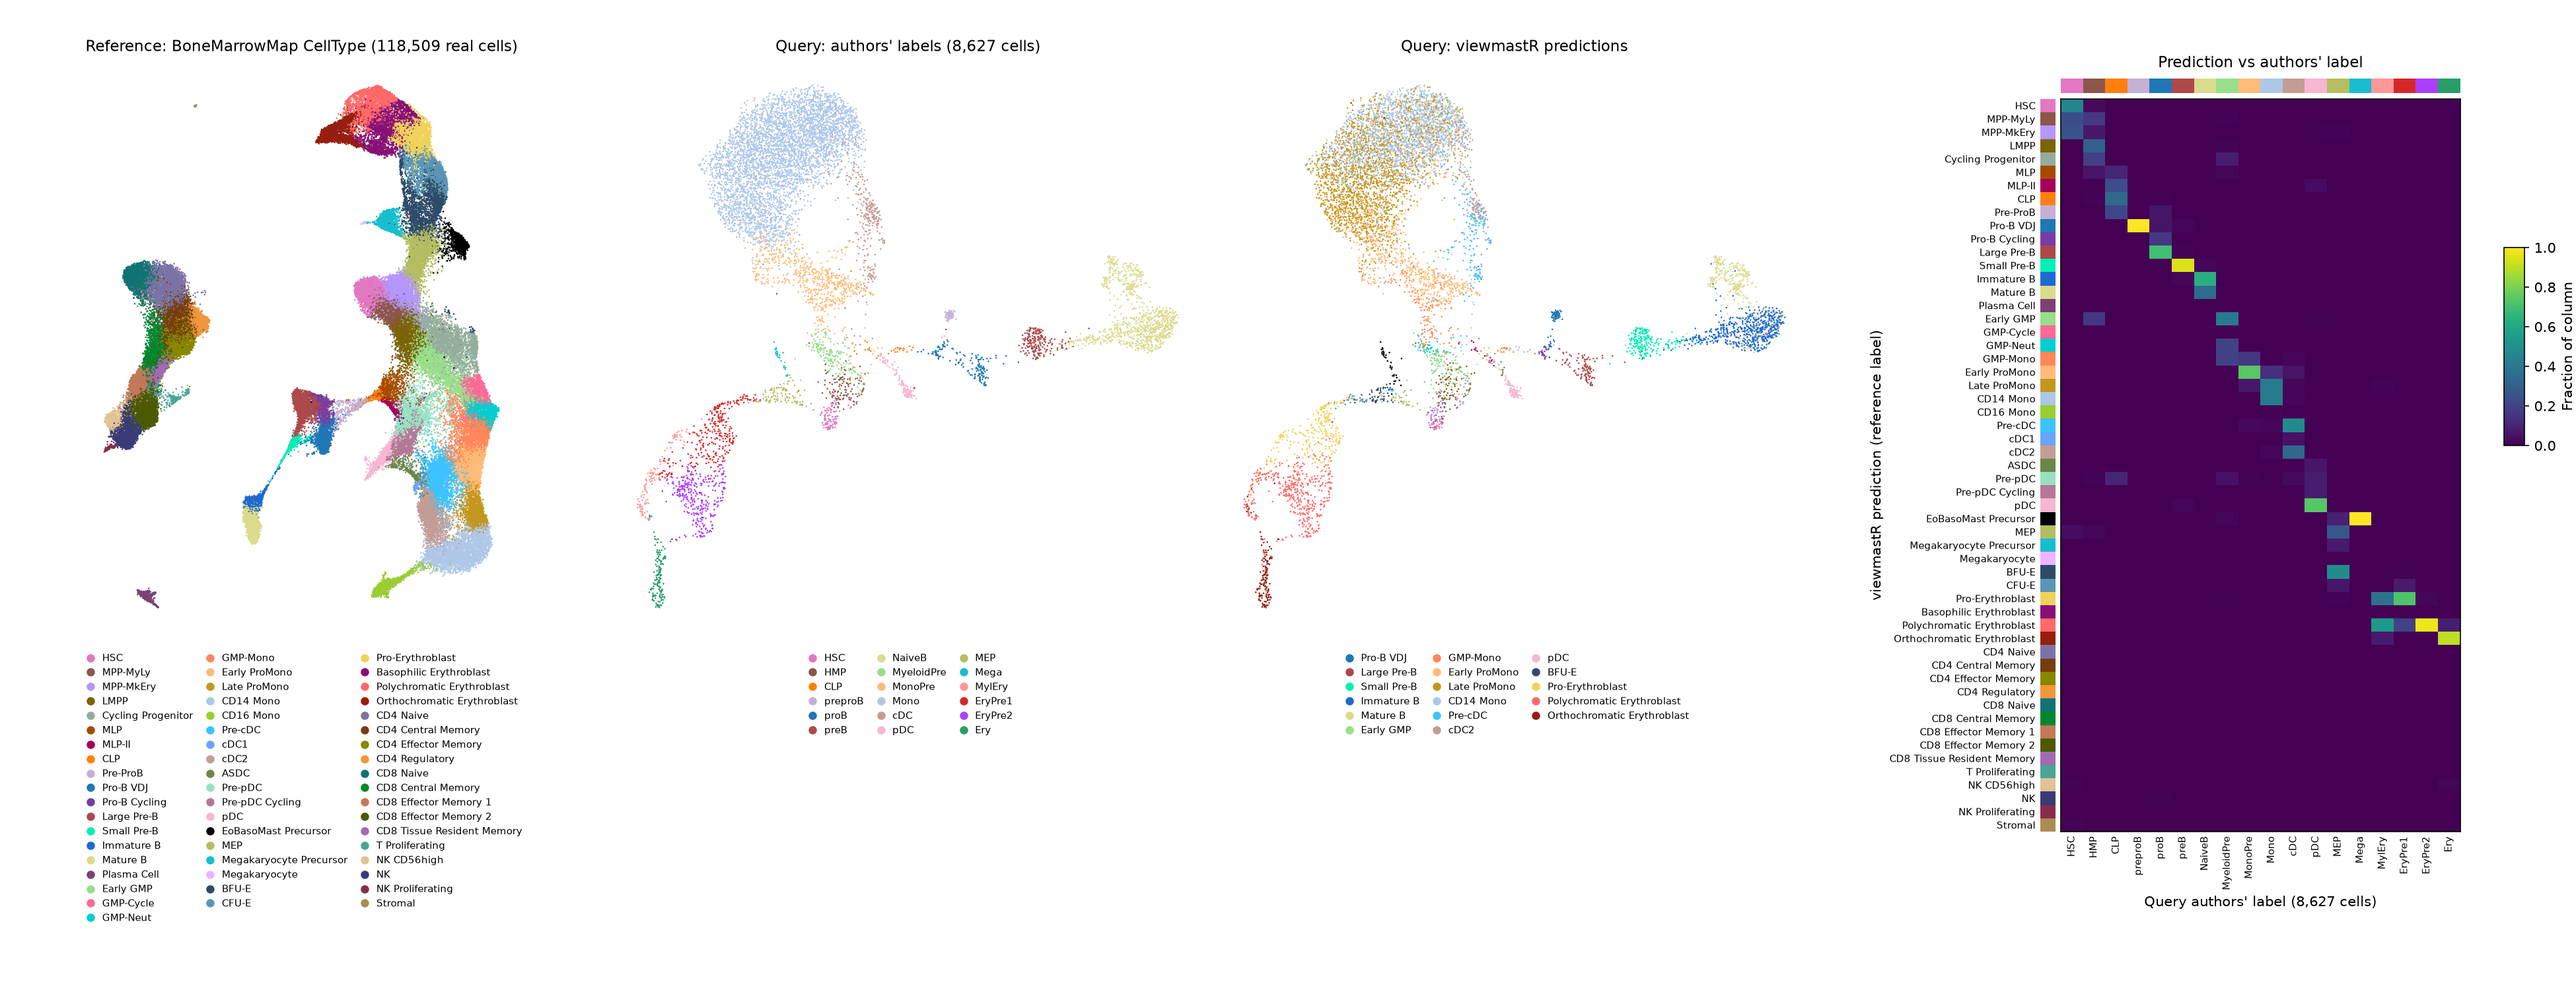
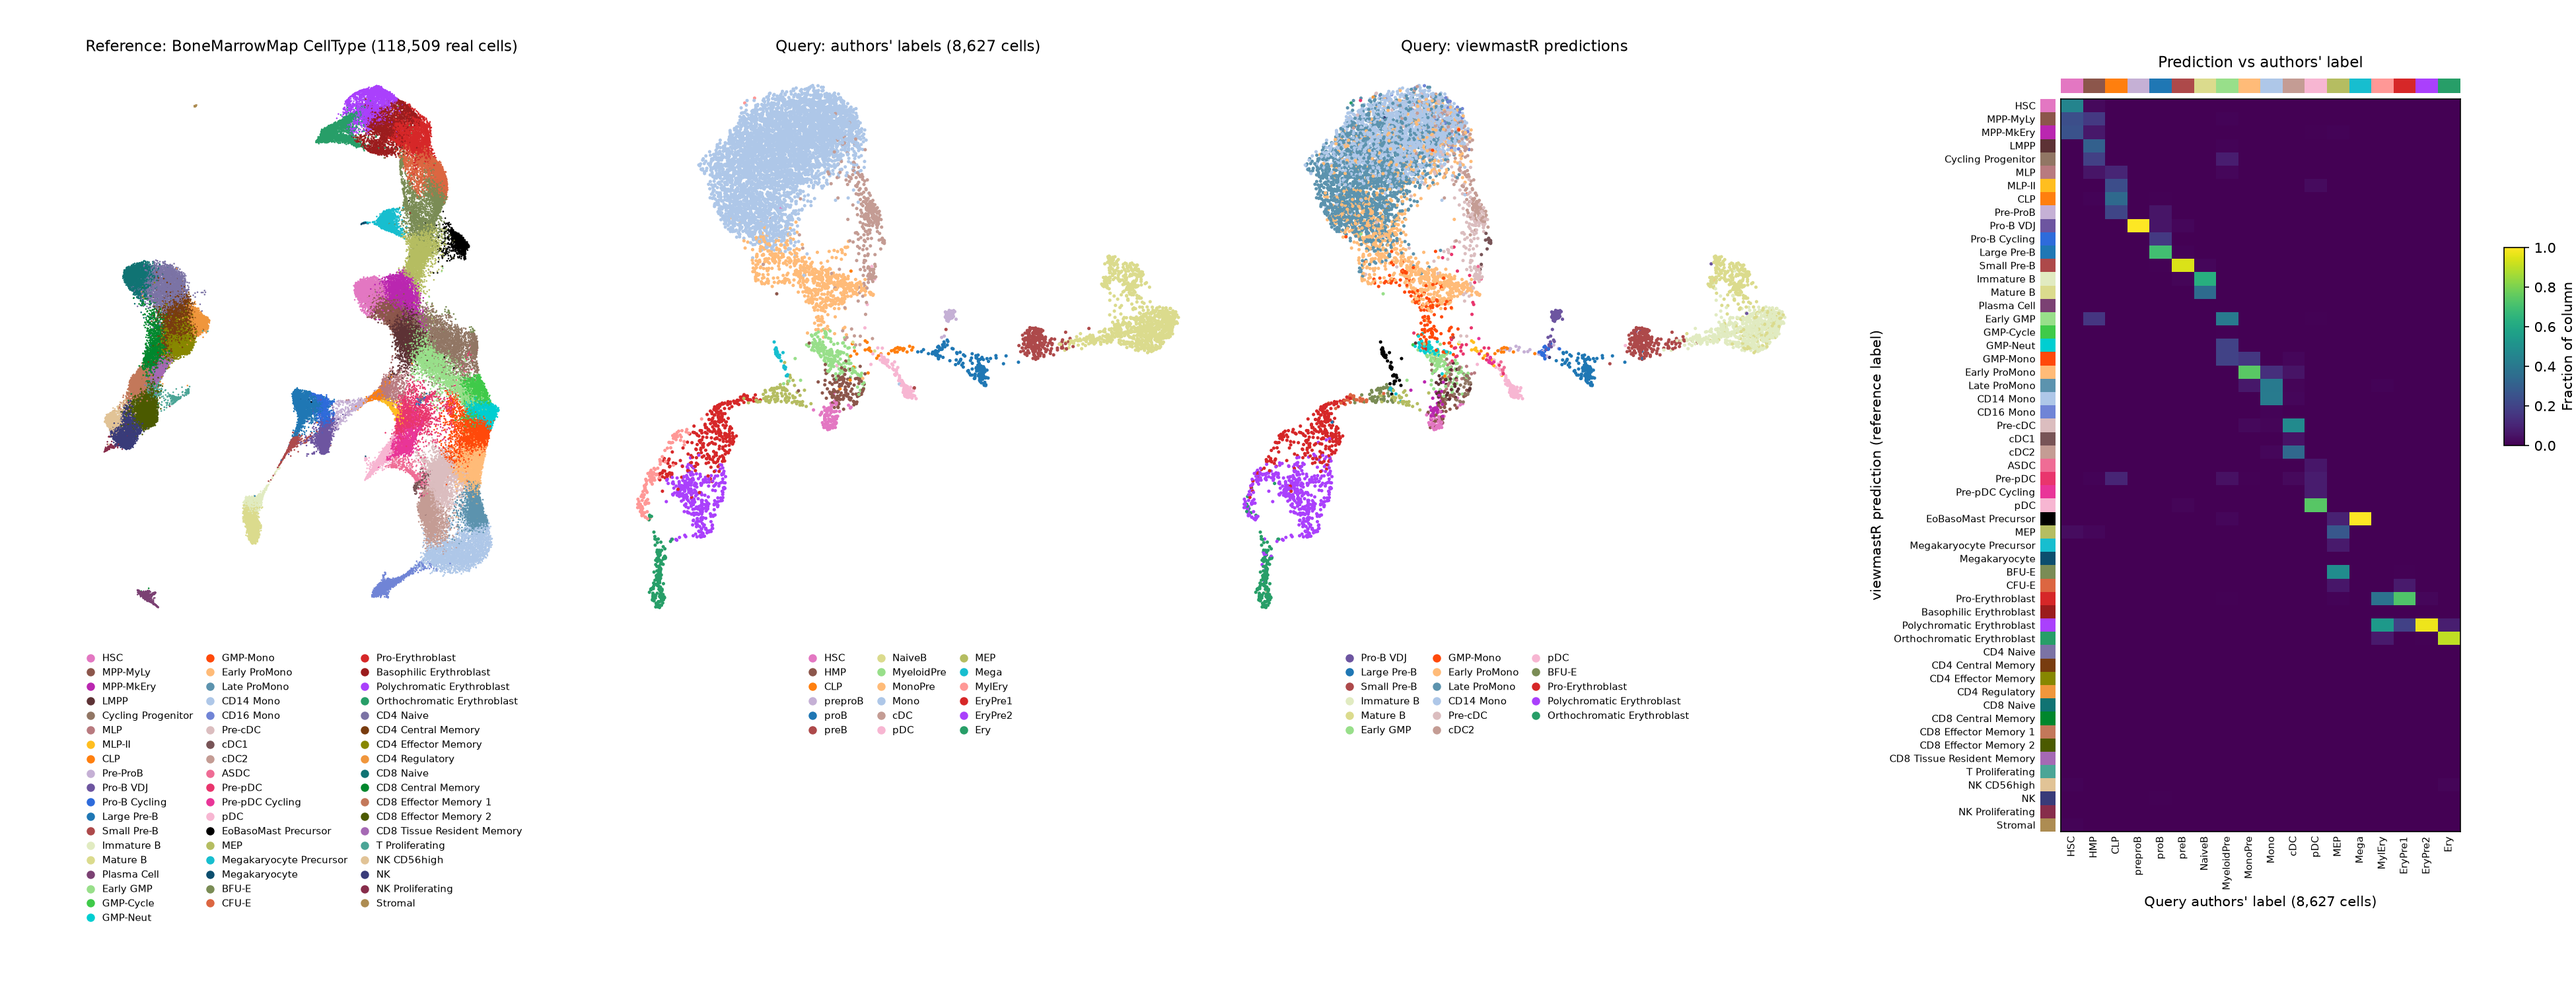
Enlarge the query dots and give like cell types one hue
The two query UMAPs now draw dots of area 6 instead of 1.5; the
118,509-cell reference keeps 1.5.

Each reference type is grouped under one query author label: the
label of the same name, else the label most of its predicted cells
carry, else its lineage. One type per group keeps that label's
palette colour. The others get a shade of it (hue within 0.04, HLS
lightness within 0.3), picked to be farthest in CIELAB from every
colour already in use. Each new shade is at least
13.2 from every other colour. GMP-Neut keeps #00ced1.

diff --git a/scripts/readme_figures.py b/scripts/readme_figures.py
@@ -23,6 +23,7 @@ query authors' label. The prediction legend lists only types called on at least 
 from __future__ import annotations
 
 import argparse
+import colorsys
 from pathlib import Path
 
 import matplotlib
@@ -38,6 +39,7 @@ import viewmastr as vm
 
 OUT = Path(__file__).resolve().parents[1] / "docs" / "img"
 SEED = 20261103
+QSIZE = 6  # dot area of the two query UMAPs (the 118,509-cell reference keeps 1.5)
 ORDER = list(vm.palette.COLORS)
 # BoneMarrowMap ``CellType``, by lineage
 FINE_ORDER = [
@@ -68,11 +70,66 @@ EXTRA = [
     "#5a96b4", "#f0d25a", "#870f78", "#ff6969", "#961e0f", "#783c0f", "#878700", "#f0963c",
     "#00872d", "#c3785a", "#4b5a00", "#a569b4", "#4ba596", "#e1c396", "#872d4b",
 ]
+# Fine types grouped under one query author label, so that like types in the reference and the
+# query share a hue: the label of the same population by name if there is one, else the author
+# label that most predicted cells of the type carry (cross-tab of job 11823840), else by lineage
+# (Megakaryocyte, Basophilic Erythroblast: never called). The first type keeps the author label's
+# palette colour; each other type gets the shade of it (hue within 0.04, HLS lightness within 0.3)
+# farthest in CIELAB from every colour already used. Types in no group keep the colour set above.
+FAMILY = {
+    "HSC": ["HSC", "MPP-MkEry"],
+    "HMP": ["MPP-MyLy", "LMPP", "Cycling Progenitor", "MLP"],
+    "CLP": ["CLP", "MLP-II"],
+    "preproB": ["Pre-ProB", "Pro-B VDJ"],
+    "proB": ["Large Pre-B", "Pro-B Cycling"],
+    "preB": ["Small Pre-B"],
+    "NaiveB": ["Mature B", "Immature B"],
+    "MyeloidPre": ["Early GMP", "GMP-Cycle"],
+    "MonoPre": ["Early ProMono", "GMP-Mono"],
+    "Mono": ["CD14 Mono", "Late ProMono", "CD16 Mono"],
+    "cDC": ["cDC2", "Pre-cDC", "cDC1"],
+    "pDC": ["pDC", "Pre-pDC", "Pre-pDC Cycling", "ASDC"],
+    "MEP": ["MEP", "BFU-E"],
+    "Mega": ["Megakaryocyte Precursor", "Megakaryocyte"],
+    "EryPre1": ["Pro-Erythroblast", "CFU-E", "Basophilic Erythroblast"],
+    "EryPre2": ["Polychromatic Erythroblast"],
+    "Ery": ["Orthochromatic Erythroblast"],
+}
+
+
+def lab(hex_) -> np.ndarray:
+    """CIELAB (D65) of a hex colour."""
+    rgb = np.array(matplotlib.colors.to_rgb(hex_))
+    rgb = np.where(rgb > 0.04045, ((rgb + 0.055) / 1.055) ** 2.4, rgb / 12.92)
+    xyz = np.array([[0.4124, 0.3576, 0.1805], [0.2126, 0.7152, 0.0722],
+                    [0.0193, 0.1192, 0.9505]]) @ rgb / np.array([0.9505, 1.0, 1.089])
+    f = np.where(xyz > 0.008856, np.cbrt(xyz), 7.787 * xyz + 16 / 116)
+    return np.array([116 * f[1] - 16, 500 * (f[0] - f[1]), 200 * (f[1] - f[2])])
+
+
+def shade(hex_, taken) -> str:
+    """A shade of ``hex_`` (hue within 0.04, lightness within 0.3) farthest (CIELAB) from ``taken``."""
+    h, l, s = colorsys.rgb_to_hls(*matplotlib.colors.to_rgb(hex_))
+    cand = [matplotlib.colors.to_hex(colorsys.hls_to_rgb((h + dh) % 1, q, s * ds))
+            for dh in (-0.04, -0.02, 0, 0.02, 0.04)
+            for q in np.linspace(0.2, 0.88, 18) if abs(q - l) <= 0.3
+            for ds in (0.6, 1.0)]
+    pts = np.array([lab(c) for c in taken])
+    return max(cand, key=lambda c: np.linalg.norm(pts - lab(c), axis=1).min())
+
+
 _extra = iter(EXTRA)
 COLOR = {}
 for _k in FINE_ORDER:
     _a = FINE_ALIASES.get(_k, _k)
     COLOR[_k] = vm.palette.color(_a) if vm.palette.known(_a) else next(_extra)
+_shaded = {t for ts in FAMILY.values() for t in ts[1:]}
+COLOR.update({ts[0]: vm.palette.color(f) for f, ts in FAMILY.items()})
+_taken = list(vm.palette.COLORS.values()) + [COLOR[k] for k in FINE_ORDER if k not in _shaded]
+for _types in FAMILY.values():
+    for _k in _types[1:]:
+        COLOR[_k] = shade(COLOR[_types[0]], _taken)
+        _taken.append(COLOR[_k])
 
 
 def color(label) -> str:
@@ -89,11 +146,11 @@ def lineage_order(labels) -> list[str]:
     return sorted(pd.unique(pd.Series(list(labels), dtype=str)), key=key)
 
 
-def umap_panel(ax, xy, labels, title, legend=None):
-    """UMAP coloured by label; the legend lists ``legend`` (default: every label present)."""
+def umap_panel(ax, xy, labels, title, legend=None, size=1.5):
+    """UMAP coloured by label (dot area ``size``); the legend lists ``legend`` (default: every label)."""
     labels = np.asarray(labels, dtype=str)
     order = np.random.default_rng(0).permutation(len(labels))
-    ax.scatter(xy[order, 0], xy[order, 1], s=1.5, linewidths=0, rasterized=True,
+    ax.scatter(xy[order, 0], xy[order, 1], s=size, linewidths=0, rasterized=True,
                c=[color(x) for x in labels[order]])
     ax.set_title(title, fontsize=11)
     ax.set_xticks([])
@@ -144,7 +201,8 @@ def main():
     pred = query.obs["viewmastR_pred"].astype(str)
     if args.panel:
         fig, ax = plt.subplots(figsize=(6, 9))
-        umap_panel(ax, np.asarray(query.obsm["X_umap"]), pred, "Query: viewmastR predictions")
+        umap_panel(ax, np.asarray(query.obsm["X_umap"]), pred, "Query: viewmastR predictions",
+                   size=QSIZE)
         fig.subplots_adjust(left=0.01, right=0.99, top=0.94, bottom=0.36)
         fig.savefig(OUT / "test_panel.png", dpi=150)
         return
@@ -171,9 +229,9 @@ def main():
     umap_panel(axes[0], np.asarray(real.obsm["X_umap"]), real.obs[label],
                f"Reference: BoneMarrowMap CellType ({real.n_obs:,} real cells)")
     umap_panel(axes[1], np.asarray(query.obsm["X_umap"]), query.obs["celltype"],
-               f"Query: authors' labels ({query.n_obs:,} cells)")
+               f"Query: authors' labels ({query.n_obs:,} cells)", size=QSIZE)
     umap_panel(axes[2], np.asarray(query.obsm["X_umap"]), pred,
-               "Query: viewmastR predictions", legend=shown)
+               "Query: viewmastR predictions", legend=shown, size=QSIZE)
     x0, x1, y0, y1 = 0.800, 0.955, 0.16, 0.90
     ax = fig.add_axes([x0, y0, x1 - x0, y1 - y0])
     im = ax.imshow(frac.to_numpy(), aspect="auto", cmap="viridis", vmin=0, vmax=1,

diff --git a/README.md b/README.md
@@ -22,10 +22,13 @@ B-lymphoid stage from HSC to mature B cell. The first panel shows the real BoneM
 training cells on their stored UMAP. The query is shown on its own published UMAP, coloured by
 its authors' labels (second panel) and by the viewmastR prediction (third panel). The third
 legend lists only types predicted for at least 50 query cells (or 0.5 % of them, if larger).
-Colours are those of `viewmastr.palette`. Fine types with no palette colour get one extra
-palette: 31 colours (`EXTRA` in the script). Each new colour is at least 20 (Delta E 1976,
-CIELAB) from every other colour. Some pairs of palette colours are closer; the closest is
-GMP-Neut and Megakaryocyte Precursor (10.8).
+Colours are those of `viewmastr.palette`. Like types share a hue across the panels. Each
+reference type is grouped under one query author label (`FAMILY` in the script): the label of
+the same name if there is one, else the label most of its predicted cells carry, else by
+lineage. One type per group keeps that label's colour. The others get a shade
+of it, at least 13.2 (Delta E 1976, CIELAB) from every other colour. Other types with no palette
+colour use `EXTRA`: 31 colours, each at least 20 from every palette colour. Some pairs of palette
+colours are closer; the closest is GMP-Neut and Megakaryocyte Precursor (10.8).
 
 The fourth panel compares the prediction with the query authors' labels, made independently
 with their own names. Each column is one author label; colour is the fraction of its cells
